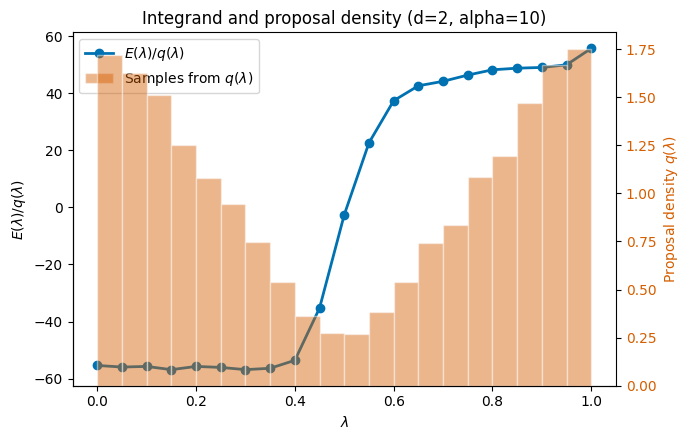
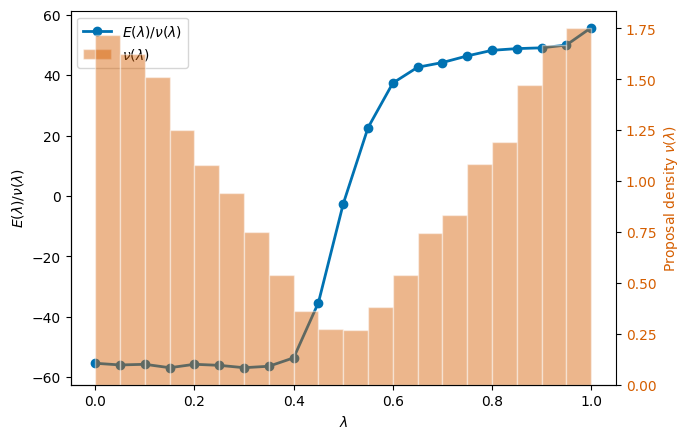
add confidence

diff --git a/src/meanshift.py b/src/meanshift.py
@@ -137,7 +137,7 @@ def plot_ups_integrand_and_proposal(
 		marker="o",
 		linewidth=2,
 		color="#0072B2",
-		label=r"$E(\lambda)/q(\lambda)$",
+		label=r"$E(\lambda)/\nu(\lambda)$",
 	)
 	proposal_ax.hist(
 		jax.device_get(proposal_samples),
@@ -146,14 +146,13 @@ def plot_ups_integrand_and_proposal(
 		color="#D55E00",
 		alpha=0.45,
 		edgecolor="white",
-		label=r"Samples from $q(\lambda)$",
+		label=r"$\nu(\lambda)$",
 	)
 	ax.set(
-		title=f"Integrand and proposal density (d={dimension}, alpha={alpha})",
 		xlabel=r"$\lambda$",
-		ylabel=r"$E(\lambda)/q(\lambda)$",
+		ylabel=r"$E(\lambda)/\nu(\lambda)$",
 	)
-	proposal_ax.set_ylabel(r"Proposal density $q(\lambda)$", color="#D55E00")
+	proposal_ax.set_ylabel(r"Proposal density $\nu(\lambda)$", color="#D55E00")
 	proposal_ax.tick_params(axis="y", labelcolor="#D55E00")
 	handles, labels = ax.get_legend_handles_labels()
 	proposal_handles, proposal_labels = proposal_ax.get_legend_handles_labels()
@@ -575,9 +574,6 @@ def plot_estimator_boxplot(
 ):
 	"""Plot UPS, SUPS, and IS estimate distributions for one setup."""
 
-	if n_rep_mcmc < 1 or n_rep_is < 1:
-		raise ValueError("Replication counts must be at least 1.")
-
 	lambda_grid = jnp.asarray(lambda_grid)
 	(
 		key_tuning,
@@ -688,7 +684,7 @@ def plot_estimator_boxplot(
 	is_keys = jax.random.split(key_is, n_rep_is)
 	is_estimates = jax.vmap(
 		lambda rep_key: IS_estimator(
-			rep_key, log_weight, proposal, M
+			rep_key, log_weight, proposal, M = 1000
 		)
 	)(is_keys)
 
@@ -718,7 +714,6 @@ def plot_estimator_boxplot(
 		label="True value",
 	)
 	ax.set(
-		title=f"Estimator distributions (d={dimension}, M={M}, alpha={alpha})",
 		ylabel="Estimate of log(Z1 / Z0)",
 	)
 	legend_handles = [
